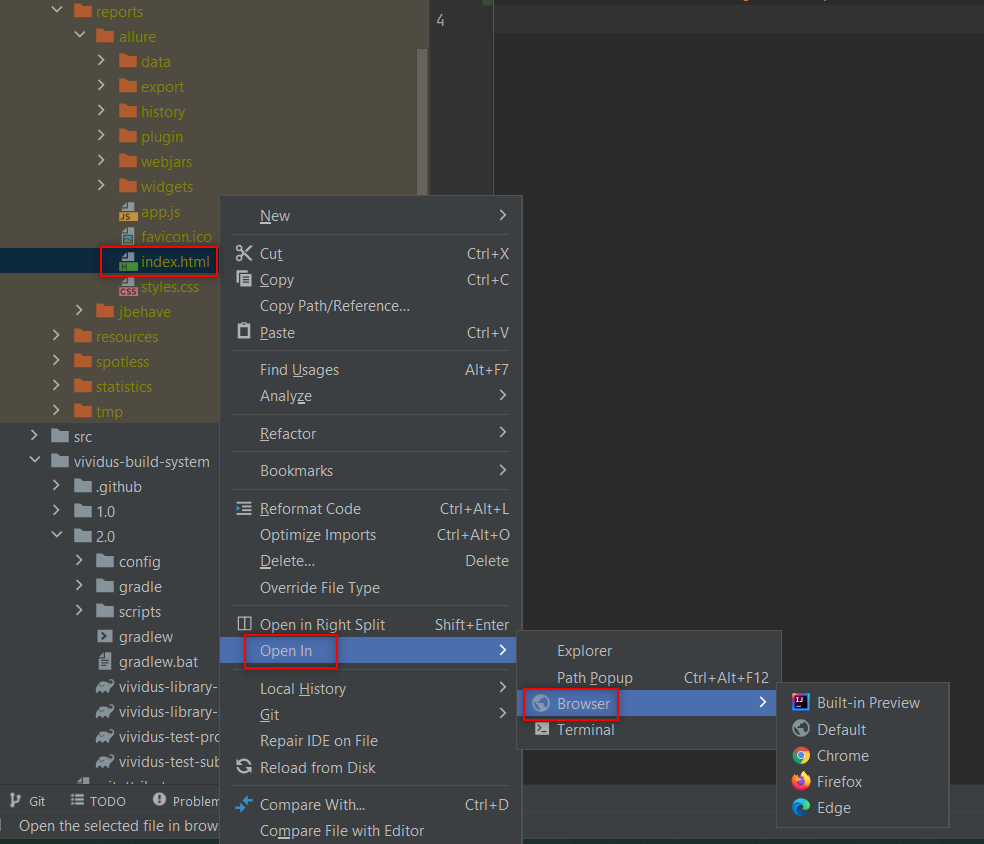
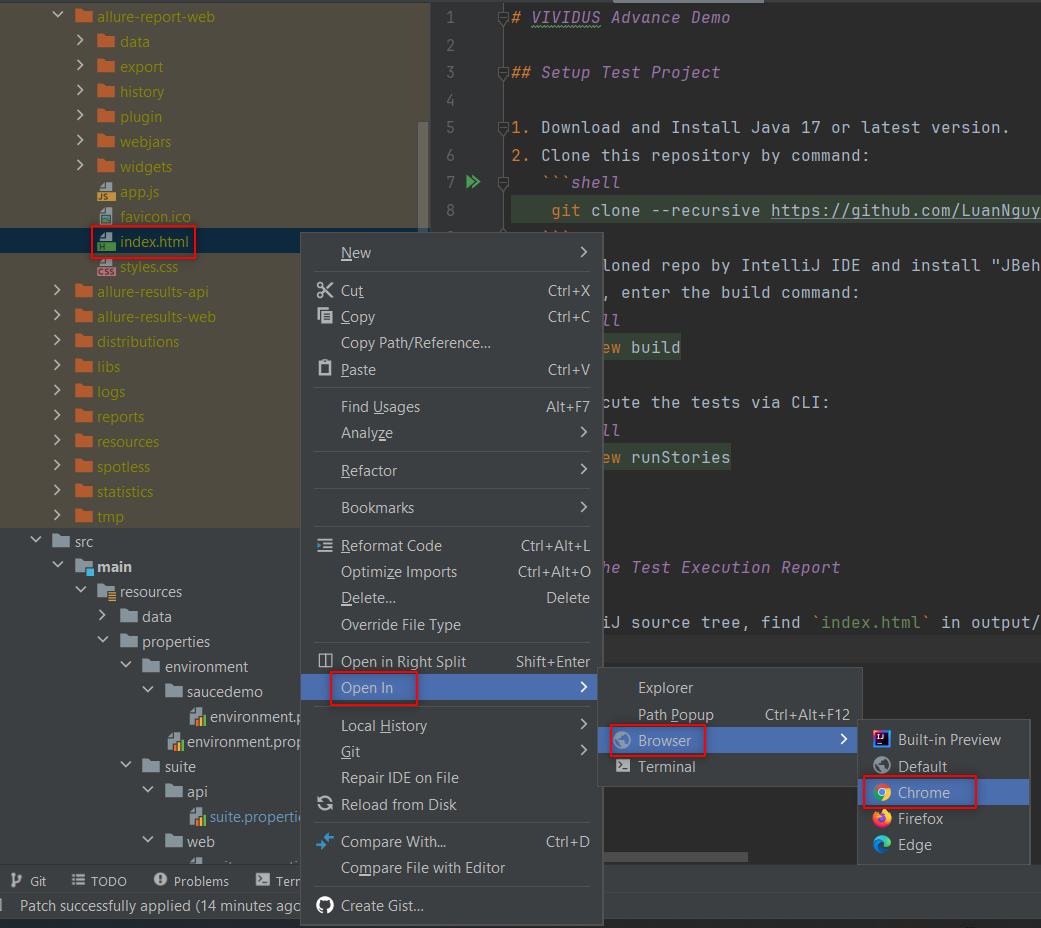
Add example api test case and update allure path

diff --git a/README.md b/README.md
@@ -20,5 +20,7 @@
 
 ## View The Test Execution Report
 
-On IntelliJ source tree, find `index.html` in output/reports/allure folder > Right click and select Open In > Select which browser that you want to run
+On IntelliJ source tree, find `index.html` in output/web/allure-report-web folder > Right click and select Open In > Select which browser that you want to run
 ![img.png](img.png)
+
+The path for Allure API report is similar and in output/api/allure-report-api folder
